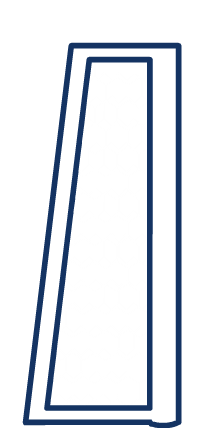
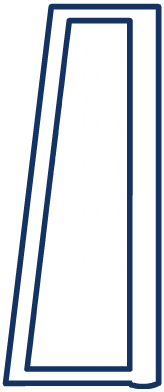
SDL: ajuste de los arcos
Ahora aparecen en pantalla y se escalan automáticamente.

diff --git a/src/client/sdl_arena.cpp b/src/client/sdl_arena.cpp
@@ -6,17 +6,15 @@ sdl_arena::sdl_arena(SDL2pp::Renderer &renderer): texture_stadium(renderer, DATA
 void sdl_arena::render(SDL2pp::Renderer &renderer) {
     int t_height = renderer.GetOutputHeight();
     int t_width = renderer.GetOutputWidth();
-    int size_h= 10 * renderer.GetOutputHeight() /100;
-    int size_w= 10 * renderer.GetOutputWidth() /100;
-    int tex_w=texture_goal.GetWidth();
-    int tex_h=texture_goal.GetHeight();
+    int size_h= 50 * renderer.GetOutputHeight() /100;
+    int size_w= 12 * renderer.GetOutputWidth() /100;
     //Fondo
     renderer.Copy(texture_stadium);
     //Arcos
     //TODO: hacerlo escalable.
     renderer.Copy(texture_goal, SDL2pp::NullOpt,
-                  SDL2pp::Rect(0-tex_w, t_height-tex_h, size_w,size_h));
+                  SDL2pp::Rect(0, t_height-size_h, size_w,size_h));
     renderer.Copy(texture_goal, SDL2pp::NullOpt,
-                  SDL2pp::Rect((t_width - size_w)-tex_w, t_height-tex_h, size_w,size_h), 0,
+                  SDL2pp::Rect((t_width - size_w), t_height-size_h, size_w,size_h), 0,
                   SDL2pp::NullOpt, SDL_FLIP_HORIZONTAL);
 }

diff --git a/src/client/sdl_main.cpp b/src/client/sdl_main.cpp
@@ -3,7 +3,7 @@
 
 sdl_main::sdl_main(): sdl(SDL_INIT_VIDEO),
                       window("Rocket League", SDL_WINDOWPOS_UNDEFINED, SDL_WINDOWPOS_UNDEFINED,
-                                   800, 600, SDL_WINDOW_RESIZABLE),
+                                   900, 500, SDL_WINDOW_RESIZABLE),
                       renderer(window, -1, SDL_RENDERER_ACCELERATED), ttf(),
                       arena(renderer), scoreboard(renderer), ball(renderer), time(0)
 #ifdef SDL_TESTING
@@ -56,10 +56,8 @@ sdl_main::~sdl_main() {
 #ifdef SDL_TESTING
 void sdl_main::updateScreen() {
     scoreboard.update(format_duration((std::chrono::milliseconds)time),0,0);
-    my_object.update(0,500, 0, FRAME_RATE);
-
-
-
+    ball.update(renderer.GetOutputWidth()/2, renderer.GetOutputHeight()-(renderer.GetOutputHeight()/6),0);
+    my_object.update(0,renderer.GetOutputHeight()-(renderer.GetOutputHeight()/6), 0, FRAME_RATE);
     time += UPDATE_TIME;
 }
 #endif

diff --git a/sdl_testing.cpp b/sdl_testing.cpp
@@ -15,22 +15,8 @@ static void update(sdl_player &player, float dt);
 
 int main(int argc, char** argv){
     try {
-        /*
-        // Inicializo biblioteca de SDL
-        SDL2pp::SDL sdl(SDL_INIT_VIDEO);
-        // Creo una ventana dinamica con título "Hello world"
-        SDL2pp::Window window("Hello world", SDL_WINDOWPOS_UNDEFINED, SDL_WINDOWPOS_UNDEFINED,
-                              800, 600, SDL_WINDOW_RESIZABLE);
-
-        // Creo renderer
-        SDL2pp::Renderer renderer(window, -1, SDL_RENDERER_ACCELERATED);
-
-        sdl_player py(renderer);
-*/
         sdl_main py;
         bool running = true;
-        // Gameloop, notar como tenemos desacoplado el procesamiento de los inputs (handleEvents)
-        // del update del modelo.
         while (running) {
             running = handleEvents(py.my_object);
             py.updateScreen();

diff --git a/src/client/sdl_player.cpp b/src/client/sdl_player.cpp
@@ -45,7 +45,7 @@ void sdl_player::update(int _x, int _y, double _angle, float _dt) {
 
 void sdl_player::render(SDL2pp::Renderer &renderer) {
     SDL_RendererFlip flip = facingLeft ? SDL_FLIP_HORIZONTAL : SDL_FLIP_NONE;
-    int size_h= 11 * renderer.GetOutputHeight() /100;
+    int size_h= 8 * renderer.GetOutputHeight() /100;
     int size_w= size_h*3;
     car.render(renderer, SDL2pp::Rect(x, y, size_w, size_h), angle,flip);
 
